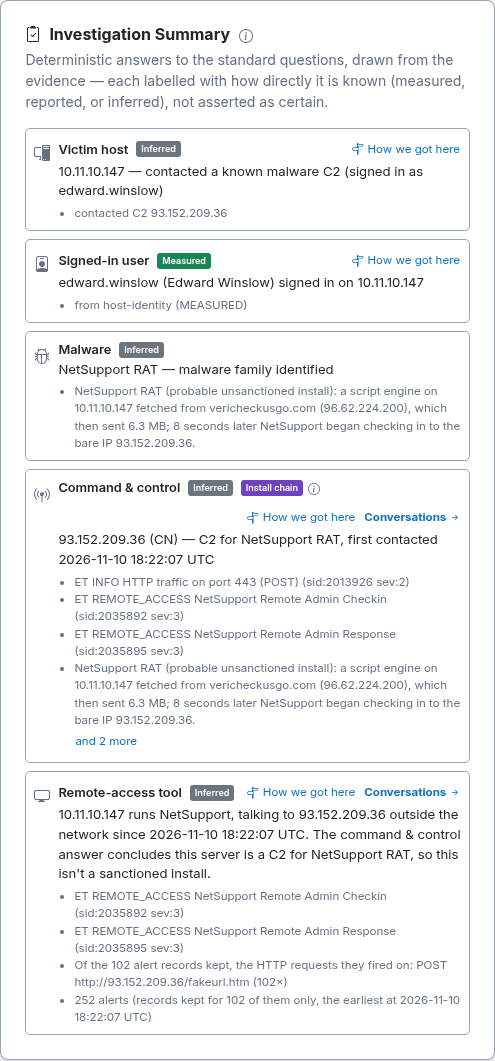
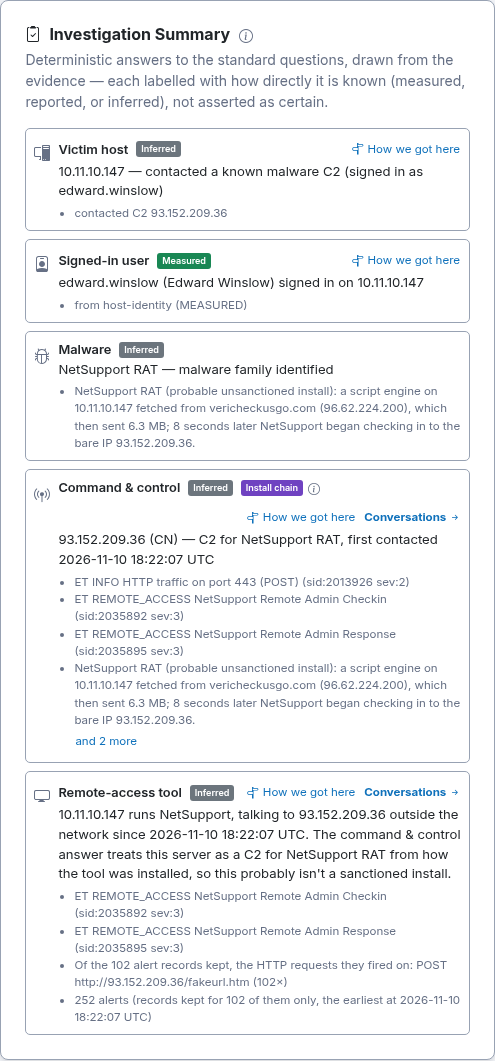
fix: review: the remote-access verdict is no firmer than the C2 answer, and names every family
- Three wordings by how the server became a C2: a rule ("concludes … isn't a sanctioned
  install"), the install chain ("treats … as a C2 … from how the tool was installed, so this
  probably isn't"), a suspicion ("suspects … treat as unsanctioned unless IT confirms"); a
  firmer basis from any check wins. concludedC2 is c2 | install-chain | suspected.
- Every family on the server, named ones first; a tool's "(unsanctioned use)" qualifier isn't
  repeated in the sentence.
- How we got here adds the C2 conclusion as a step.
- Class comment updated; the NetSupport page and screenshot match the install-chain wording.

Changed region(s): [[0.1212, 0.7776, 0.9091, 0.8398]]

diff --git a/backend/src/main/java/com/tracepcap/knowledge/question/RemoteAccessQuestion.java b/backend/src/main/java/com/tracepcap/knowledge/question/RemoteAccessQuestion.java
@@ -21,9 +21,10 @@ import org.springframework.stereotype.Component;
  * "Is a remote-access tool talking to the internet?" A remote-admin tool (NetSupport, AnyDesk,
  * ScreenConnect, TeamViewer…) seen checking in to a server outside the network. IT departments use
  * these tools, and so do attackers: NetSupport is a favourite RAT, and ET files its check-in under
- * INFO, not MALWARE, precisely because it may be sanctioned. So this neither calls the server a C2
- * nor names a malware family; it surfaces the session for an analyst to confirm. When another check
- * has concluded the server is a C2 (a RAT's install chain, say), it says so instead of asking.
+ * INFO, not MALWARE, precisely because it may be sanctioned. So this never calls the server a C2
+ * itself; it surfaces the session for an analyst to confirm. When another check has already made
+ * the server a C2 (a rule, a RAT's install chain, a suspicion), it points to that answer and its
+ * family instead of asking.
  *
  * <p>Found in the 2026-11-10 NetSupport RAT exercise, where the only IDS hit was "ET INFO NetSupport
  * Remote Admin Checkin" to 93.152.209.36, and nothing else in the answers mentioned it.
@@ -70,13 +71,11 @@ public class RemoteAccessQuestion implements StandardQuestion {
 
     // Servers another check already concluded are a C2 (#1262): the session isn't then a tool to
     // confirm, and saying so beside a C2 answer read as a contradiction.
-    Map<String, String> c2Families = new LinkedHashMap<>();
-    Map<String, Boolean> c2Suspected = new LinkedHashMap<>();
+    Map<String, C2Basis> c2s = new LinkedHashMap<>();
     for (com.tracepcap.knowledge.spi.Relationship r : board.relationshipsWithPredicate("c2-of")) {
-      c2Families.putIfAbsent(r.from().key(), r.to().key());
-      boolean suspected = "suspected-c2".equals(r.attributes().get("corroboration"));
-      // A firm conclusion from any check outweighs a suspicion from another.
-      c2Suspected.merge(r.from().key(), suspected, Boolean::logicalAnd);
+      C2Basis b = c2s.computeIfAbsent(r.from().key(), k -> new C2Basis());
+      b.families.add(r.to().key());
+      b.strength = Math.max(b.strength, strengthOf(r.attributes().get("corroboration")));
     }
 
     List<Answer> answers = new ArrayList<>();
@@ -100,9 +99,8 @@ public class RemoteAccessQuestion implements StandardQuestion {
           basis.add(IdsAlertRecordContributor.alertSpan(server));
         }
       }
-      if (c2Families.containsKey(external)) {
-        attrs.put("concludedC2", c2Suspected.getOrDefault(external, false) ? "suspected" : "c2");
-      }
+      C2Basis c2 = c2s.get(external);
+      if (c2 != null) attrs.put("concludedC2", c2.kind());
       answers.add(
           new Answer(
               QUESTION,
@@ -112,33 +110,74 @@ public class RemoteAccessQuestion implements StandardQuestion {
                       ? " since "
                           + com.tracepcap.knowledge.contributor.TrafficContributor.readable(first)
                       : "")
-                  + ". " + verdict(external, c2Families, c2Suspected),
+                  + ". " + verdict(c2s.get(external)),
               Grade.INFERRED,
               List.of(EntityRef.host(host), EntityRef.external(external)),
               basis,
-              attrs).withDerivation(List.of(new com.tracepcap.knowledge.spi.Step(
+              attrs).withDerivation(withC2(new com.tracepcap.knowledge.spi.Step(
                   host + " ran " + tool + " to " + external + ", outside the network: "
                       + String.join("; ", alerts.stream().distinct().toList()) + ".",
                   Derivations.RULE_REMOTE_ACCESS, Grade.INFERRED,
-                  new ArrayList<>(convs.getOrDefault(key, java.util.Set.of()))))));
+                  new ArrayList<>(convs.getOrDefault(key, java.util.Set.of()))), external, c2)));
     });
     return answers;
   }
 
+  /** How firmly another check made a server a C2: by rule, by a RAT's install chain, or suspected. */
+  static final class C2Basis {
+    final java.util.Set<String> families = new java.util.LinkedHashSet<>();
+    int strength;
+
+    String kind() {
+      return strength >= 2 ? "c2" : strength == 1 ? "install-chain" : "suspected";
+    }
+  }
+
+  /** A rule (no corroboration) is firmest, then the install chain, then a suspicion. */
+  static int strengthOf(Object corroboration) {
+    if (corroboration == null) return 2;
+    if ("suspected-c2".equals(corroboration)) return 0;
+    return 1;
+  }
+
+  /** The families, named ones first, without a tool's "(unsanctioned use)" qualifier. */
+  static String families(C2Basis c2) {
+    List<String> named = new ArrayList<>();
+    boolean unidentified = false;
+    for (String f : c2.families) {
+      if (EntityRef.UNIDENTIFIED_MALWARE.equals(f)) unidentified = true;
+      else named.add(f.replaceAll("\\s*\\([^)]*\\)$", ""));
+    }
+    if (named.isEmpty()) return unidentified ? "unidentified malware" : "malware";
+    return String.join(" and ", named.stream().distinct().toList());
+  }
+
   /**
    * What the analyst should do with the session: confirm it's sanctioned, or, when the server is
-   * already concluded a C2, read that answer, which says why.
+   * already a C2, read that answer, worded no more firmly than it is.
    */
-  static String verdict(String external, Map<String, String> families, Map<String, Boolean> suspected) {
-    String family = families.get(external);
-    if (family == null) {
+  static String verdict(C2Basis c2) {
+    if (c2 == null) {
       return "IT uses remote-access tools, and so do attackers: confirm this one is sanctioned.";
     }
-    String whose = EntityRef.UNIDENTIFIED_MALWARE.equals(family) ? "unidentified malware" : family;
-    return Boolean.TRUE.equals(suspected.get(external))
-        ? "The command & control answer suspects this server is a C2 for " + whose + ", so treat the"
-            + " session as unsanctioned unless IT confirms it."
-        : "The command & control answer concludes this server is a C2 for " + whose + ", so this"
-            + " isn't a sanctioned install.";
+    String who = families(c2);
+    return switch (c2.kind()) {
+      case "c2" -> "The command & control answer concludes this server is a C2 for " + who
+          + ", so this isn't a sanctioned install.";
+      case "install-chain" -> "The command & control answer treats this server as a C2 for " + who
+          + " from how the tool was installed, so this probably isn't a sanctioned install.";
+      default -> "The command & control answer suspects this server is a C2 for " + who
+          + ", so treat the session as unsanctioned unless IT confirms it.";
+    };
+  }
+
+  /** The session's step, then the C2 conclusion the headline relies on, when there is one. */
+  private static List<com.tracepcap.knowledge.spi.Step> withC2(
+      com.tracepcap.knowledge.spi.Step session, String external, C2Basis c2) {
+    if (c2 == null) return List.of(session);
+    return List.of(session, com.tracepcap.knowledge.spi.Step.of(
+        external + " is " + (c2.kind().equals("suspected") ? "a suspected" : "a") + " C2 for " + families(c2)
+            + " (the command & control answer shows how).",
+        null, Grade.INFERRED));
   }
 }

diff --git a/backend/src/test/java/com/tracepcap/knowledge/question/RemoteAccessQuestionTest.java b/backend/src/test/java/com/tracepcap/knowledge/question/RemoteAccessQuestionTest.java
@@ -97,21 +97,57 @@ class RemoteAccessQuestionTest {
     });
   }
 
-  @Test
-  void aServerAlreadyConcludedAC2_isntOfferedAsPossiblySanctioned() {
-    // 2026-11-10: the install chain makes 93.152.209.36 NetSupport RAT's C2. Asking the analyst to
-    // confirm the same session is sanctioned contradicted that answer.
+  private static com.tracepcap.knowledge.spi.Relationship c2of(String server, String family, String corroboration) {
+    return new com.tracepcap.knowledge.spi.Relationship(EntityRef.external(server), "c2-of",
+        EntityRef.malware(family), Grade.INFERRED, corroboration == null ? "suricata" : "corroboration",
+        corroboration == null ? Map.of() : Map.of("corroboration", corroboration));
+  }
+
+  private static Answer only(CaseKnowledgeBuilder b) {
+    List<Answer> a = new RemoteAccessQuestion().answer(b.build());
+    assertThat(a).hasSize(1);
+    return a.get(0);
+  }
+
+  private static CaseKnowledgeBuilder netSupport() {
     CaseKnowledgeBuilder b = new CaseKnowledgeBuilder(UUID.randomUUID());
     b.addFinding(alert("ET REMOTE_ACCESS NetSupport Remote Admin Checkin (sid:2035892 sev:3)", "10.11.10.147", "93.152.209.36"));
-    b.addRelationship(new com.tracepcap.knowledge.spi.Relationship(EntityRef.external("93.152.209.36"), "c2-of",
-        EntityRef.malware("NetSupport RAT"), Grade.INFERRED, "corroboration", Map.of("corroboration", "install-chain")));
+    return b;
+  }
 
-    assertThat(new RemoteAccessQuestion().answer(b.build())).singleElement().satisfies(x -> {
-      assertThat(x.headline()).doesNotContain("confirm this one is sanctioned")
-          .endsWith("The command & control answer concludes this server is a C2 for NetSupport RAT, so this"
-              + " isn't a sanctioned install.");
-      assertThat(x.attributes()).containsEntry("concludedC2", "c2");
-    });
+  @Test
+  void aServerMadeAC2ByTheInstallChain_isProbablyUnsanctioned_notConfirmable() {
+    // 2026-11-10: the install chain makes 93.152.209.36 NetSupport RAT's C2. Asking the analyst to
+    // confirm the same session was sanctioned contradicted that answer; saying "isn't" outright
+    // would claim more than the chain's "probable unsanctioned install".
+    CaseKnowledgeBuilder b = netSupport();
+    b.addRelationship(c2of("93.152.209.36", "NetSupport RAT", "install-chain"));
+    Answer x = only(b);
+    assertThat(x.headline()).doesNotContain("confirm this one is sanctioned")
+        .endsWith("The command & control answer treats this server as a C2 for NetSupport RAT from how the"
+            + " tool was installed, so this probably isn't a sanctioned install.");
+    assertThat(x.attributes()).containsEntry("concludedC2", "install-chain");
+    // how we got here cites the C2 conclusion the headline relies on
+    assertThat(x.derivation()).hasSize(2).last().satisfies(st -> assertThat(st.found())
+        .isEqualTo("93.152.209.36 is a C2 for NetSupport RAT (the command & control answer shows how)."));
+  }
+
+  @Test
+  void aRuleMadeC2_isConcluded_andEveryFamilyNamed_namedFirst() {
+    CaseKnowledgeBuilder b = netSupport();
+    b.addRelationship(c2of("93.152.209.36", EntityRef.UNIDENTIFIED_MALWARE, null));
+    b.addRelationship(c2of("93.152.209.36", "NetSupport RAT", "install-chain"));
+    Answer x = only(b);
+    assertThat(x.headline()).endsWith("The command & control answer concludes this server is a C2 for"
+        + " NetSupport RAT, so this isn't a sanctioned install.");
+    assertThat(x.attributes()).containsEntry("concludedC2", "c2");
+  }
+
+  @Test
+  void aToolsUnsanctionedUseQualifier_isntRepeatedInTheSentence() {
+    CaseKnowledgeBuilder b = netSupport();
+    b.addRelationship(c2of("93.152.209.36", "NetSupport (unsanctioned use)", "install-chain"));
+    assertThat(only(b).headline()).contains("a C2 for NetSupport from how").doesNotContain("(unsanctioned use)");
   }
 
   @Test

diff --git a/docs/demos/netsupport-rat.rst b/docs/demos/netsupport-rat.rst
@@ -86,8 +86,8 @@ Step 2 — The Investigation Summary
      - the install chain + IDS (*ET REMOTE_ACCESS NetSupport Remote Admin Checkin*)
    * - Remote-access tool
      - ``10.11.10.147`` runs **NetSupport**, talking to ``93.152.209.36`` since 18:22:07 UTC;
-       *the command & control answer concludes this server is a C2 for NetSupport RAT, so this
-       isn't a sanctioned install*
+       *the command & control answer treats this server as a C2 for NetSupport RAT from how the
+       tool was installed, so this probably isn't a sanctioned install*
      - INFERRED
      - IDS + first contact
 
@@ -114,8 +114,10 @@ Executable Download* alert is a Windows Update at 18:30, not part of the chain.)
 **Two answers about one session.** The remote-access check fires on any remote-admin tool talking
 to a server outside the network, and on its own it asks the analyst to confirm the tool is
 sanctioned (as it does for TeamViewer in :doc:`fake-software-site`). Here the C2 answer has already
-concluded it isn't, so the remote-access answer says that instead of asking. *(From a later build
-than the rest of this page: earlier, it asked anyway, beside the C2 answer.)*
+made the server a C2 from the install chain, so the remote-access answer points to it, no more
+firmly than that answer puts it: *probably* not a sanctioned install. Its **How we got here** cites
+the C2 conclusion as a step. *(From a later build than the rest of this page: earlier, it asked
+anyway, beside the C2 answer.)*
 
 Step 3 — The session
 ~~~~~~~~~~~~~~~~~~~~
